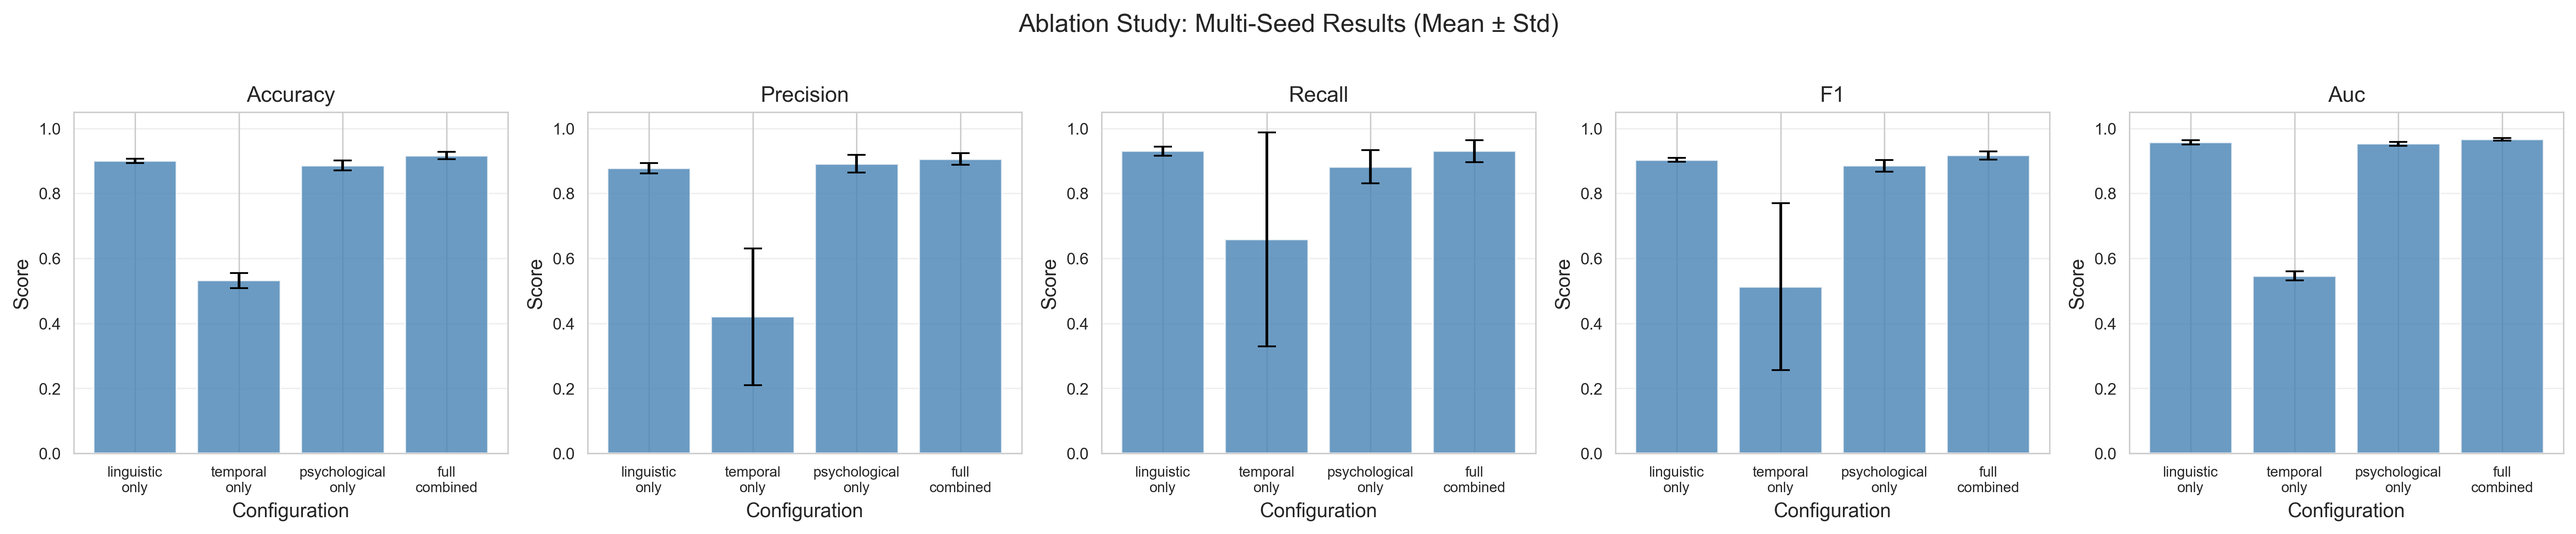
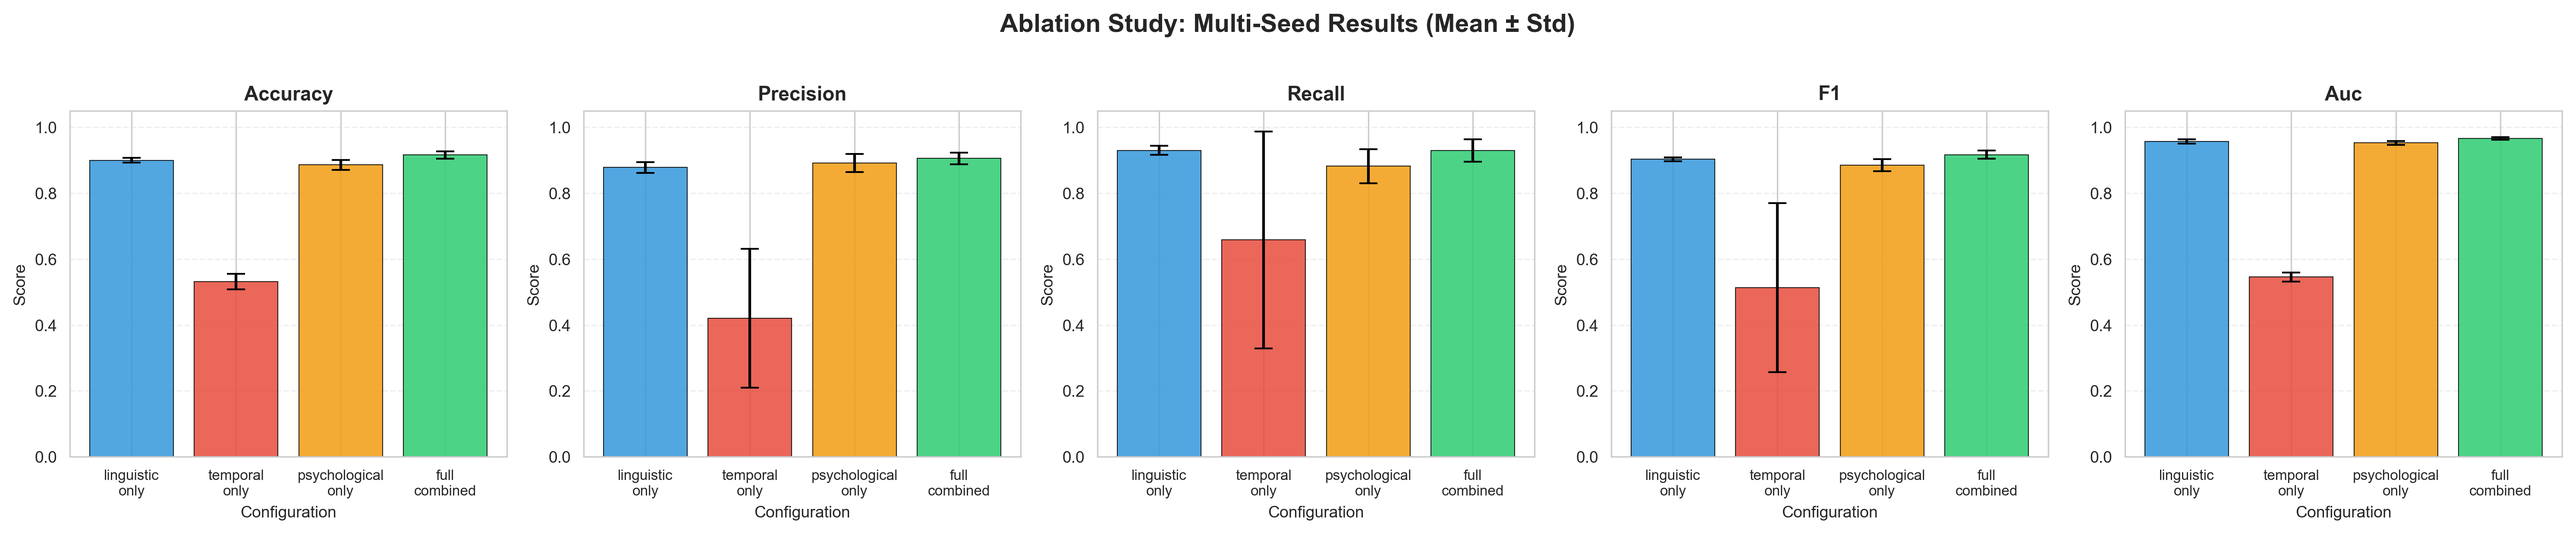
feat: add aggregate confusion matrices

diff --git a/aggregate_results.py b/aggregate_results.py
@@ -23,9 +23,10 @@ plt.rcParams['legend.fontsize'] = 9
 
 
 def load_seed_results(results_dir_pattern="results_seed_"):
-    """Load all available seed results from disk including ablation studies."""
+    """Load all available seed results from disk including ablation studies and confusion matrices."""
     all_results = []
     all_ablations = []
+    all_full_data = []
     seeds = []
 
     base_dir = Path(".")
@@ -48,13 +49,15 @@ def load_seed_results(results_dir_pattern="results_seed_"):
                 ablation_study = data.get('ablation_study', {})
                 all_ablations.append(ablation_study)
 
+                all_full_data.append(data)
+
                 print(f"✓ Loaded results from {seed_dir.name} (seed {seed_num})")
             except Exception as e:
                 print(f"✗ Failed to load {seed_dir.name}: {e}")
         else:
             print(f"✗ No comprehensive_results.json in {seed_dir.name}")
 
-    return all_results, all_ablations, seeds
+    return all_results, all_ablations, seeds, all_full_data
 
 
 def aggregate_metrics(all_results):
@@ -198,13 +201,22 @@ def plot_model_comparison(aggregated_results, output_dir="results"):
 
 
 def plot_ablation_study(all_ablations, output_dir="results"):
-    """Create visualization of ablation study results across seeds."""
+    """Create visualization of ablation study results across seeds with color-coded configurations."""
     if not all_ablations or not all_ablations[0]:
         print("No ablation data available for visualization")
         return
 
     ablation_configs = list(all_ablations[0].keys())
     metrics = ['accuracy', 'precision', 'recall', 'f1', 'auc']
+
+    color_map = {
+        'linguistic_only': '#3498db',      # Blue - linguistic features
+        'temporal_only': '#e74c3c',        # Red - temporal features
+        'psychological_only': '#f39c12',   # Orange - psychological features
+        'full_combined': '#2ecc71'         # Green - full model (best performance)
+    }
+
+    fallback_colors = ['#9b59b6', '#1abc9c', '#34495e', '#e67e22']
 
     ablation_agg = {}
     for config in ablation_configs:
@@ -229,6 +241,7 @@ def plot_ablation_study(all_ablations, output_dir="results"):
         configs = []
         means = []
         stds = []
+        colors = []
 
         for config in ablation_configs:
             if metric in ablation_agg[config]:
@@ -236,18 +249,24 @@ def plot_ablation_study(all_ablations, output_dir="results"):
                 means.append(ablation_agg[config][metric]['mean'])
                 stds.append(ablation_agg[config][metric]['std'])
 
-        x = np.arange(len(configs))
-        bars = ax.bar(x, means, yerr=stds, capsize=5, alpha=0.8, color='steelblue')
+                if config in color_map:
+                    colors.append(color_map[config])
+                else:
+                    fallback_idx = len(colors) % len(fallback_colors)
+                    colors.append(fallback_colors[fallback_idx])
 
-        ax.set_xlabel('Configuration')
-        ax.set_ylabel('Score')
-        ax.set_title(f'{metric.capitalize()}')
+        x = np.arange(len(configs))
+        bars = ax.bar(x, means, yerr=stds, capsize=5, alpha=0.85, color=colors, edgecolor='black', linewidth=0.5)
+
+        ax.set_xlabel('Configuration', fontsize=9)
+        ax.set_ylabel('Score', fontsize=9)
+        ax.set_title(f'{metric.capitalize()}', fontsize=11, fontweight='bold')
         ax.set_xticks(x)
         ax.set_xticklabels(configs, rotation=0, ha='center', fontsize=8)
         ax.set_ylim([0, 1.05])
-        ax.grid(axis='y', alpha=0.3)
+        ax.grid(axis='y', alpha=0.3, linestyle='--')
 
-    plt.suptitle('Ablation Study: Multi-Seed Results (Mean ± Std)', y=1.02, fontsize=14)
+    plt.suptitle('Ablation Study: Multi-Seed Results (Mean ± Std)', y=1.02, fontsize=14, fontweight='bold')
     plt.tight_layout()
     output_path = os.path.join(output_dir, 'aggregated_ablation_study.png')
     plt.savefig(output_path, dpi=300, bbox_inches='tight')
@@ -297,6 +316,125 @@ def plot_metrics_heatmap(aggregated_results, output_dir="results"):
     print(f"Metrics heatmap saved to: {output_path}")
 
 
+def plot_aggregated_confusion_matrices(all_results_with_cm, output_dir="results"):
+    """
+    Create aggregated confusion matrices for both models across all seeds.
+
+    Args:
+        all_results_with_cm: List of result dictionaries with confusion_matrix data
+        output_dir: Directory to save the plots
+    """
+    print("\nGenerating aggregated confusion matrices...")
+
+    models_cm = {}
+
+    for results in all_results_with_cm:
+        model_performance = results.get('model_performance', {})
+
+        for model_name, model_data in model_performance.items():
+            if 'confusion_matrix' in model_data:
+                if model_name not in models_cm:
+                    models_cm[model_name] = []
+                models_cm[model_name].append(np.array(model_data['confusion_matrix']))
+
+    if not models_cm:
+        print("No confusion matrix data found in results.")
+        return
+
+    mean_cms = {}
+    for model_name, cm_list in models_cm.items():
+        mean_cms[model_name] = np.mean(cm_list, axis=0).astype(int)
+
+    num_models = len(mean_cms)
+    fig, axes = plt.subplots(1, num_models, figsize=(6 * num_models, 5))
+
+    if num_models == 1:
+        axes = [axes]
+
+    class_names = ['Control', 'Depression']
+
+    for idx, (model_name, cm) in enumerate(mean_cms.items()):
+        ax = axes[idx]
+
+        display_name = model_name.replace('_', ' ').title()
+        if 'Roberta' in display_name:
+            display_name = 'RoBERTa Baseline'
+        elif 'Semantic' in display_name or 'Gnn' in display_name:
+            display_name = 'STEMS-GNN'
+
+        sns.heatmap(cm, annot=True, fmt='d', cmap='Blues',
+                   xticklabels=class_names, yticklabels=class_names,
+                   ax=ax, cbar_kws={'label': 'Count'},
+                   annot_kws={'size': 14, 'weight': 'bold'})
+
+        ax.set_title(f'{display_name}\n(Averaged across all seeds)', fontsize=12, fontweight='bold')
+        ax.set_ylabel('True Label', fontsize=11)
+        ax.set_xlabel('Predicted Label', fontsize=11)
+
+        total = cm.sum()
+        for i in range(2):
+            for j in range(2):
+                percentage = (cm[i, j] / total) * 100
+                ax.text(j + 0.5, i + 0.7, f'({percentage:.1f}%)',
+                       ha='center', va='center', fontsize=9, color='gray')
+
+        tn, fp, fn, tp = cm.ravel()
+        accuracy = (tp + tn) / total
+        precision = tp / (tp + fp) if (tp + fp) > 0 else 0
+        recall = tp / (tp + fn) if (tp + fn) > 0 else 0
+        f1 = 2 * (precision * recall) / (precision + recall) if (precision + recall) > 0 else 0
+
+        metrics_text = f'Acc: {accuracy:.3f} | Prec: {precision:.3f} | Rec: {recall:.3f} | F1: {f1:.3f}'
+        ax.text(0.5, -0.15, metrics_text, transform=ax.transAxes,
+               ha='center', fontsize=9, bbox=dict(boxstyle='round', facecolor='wheat', alpha=0.3))
+
+    plt.suptitle('Aggregated Confusion Matrices (Mean across all seeds)',
+                fontsize=14, fontweight='bold', y=1.02)
+    plt.tight_layout()
+
+    output_path = os.path.join(output_dir, 'aggregated_confusion_matrices.png')
+    plt.savefig(output_path, dpi=300, bbox_inches='tight')
+    plt.close()
+
+    print(f"Aggregated confusion matrices saved to: {output_path}")
+
+    fig, axes = plt.subplots(1, num_models, figsize=(6 * num_models, 5))
+
+    if num_models == 1:
+        axes = [axes]
+
+    for idx, (model_name, cm) in enumerate(mean_cms.items()):
+        ax = axes[idx]
+
+        display_name = model_name.replace('_', ' ').title()
+        if 'Roberta' in display_name:
+            display_name = 'RoBERTa Baseline'
+        elif 'Semantic' in display_name or 'Gnn' in display_name:
+            display_name = 'STEMS-GNN'
+
+        cm_normalized = cm.astype('float') / cm.sum(axis=1)[:, np.newaxis]
+
+        sns.heatmap(cm_normalized, annot=True, fmt='.2%', cmap='RdYlGn',
+                   xticklabels=class_names, yticklabels=class_names,
+                   ax=ax, cbar_kws={'label': 'Percentage'},
+                   vmin=0, vmax=1, annot_kws={'size': 14, 'weight': 'bold'})
+
+        ax.set_title(f'{display_name} (Normalized)\n(Averaged across all seeds)',
+                    fontsize=12, fontweight='bold')
+        ax.set_ylabel('True Label', fontsize=11)
+        ax.set_xlabel('Predicted Label', fontsize=11)
+
+    plt.suptitle('Normalized Confusion Matrices (Row-wise percentages)',
+                fontsize=14, fontweight='bold', y=1.02)
+    plt.tight_layout()
+
+    output_path = os.path.join(output_dir, 'aggregated_confusion_matrices_normalized.png')
+    plt.savefig(output_path, dpi=300, bbox_inches='tight')
+    plt.close()
+
+    print(f"Normalized confusion matrices saved to: {output_path}")
+
+
 def plot_error_comparison(aggregated_results, output_dir="results"):
     """Create visualization showing variation across seeds for each model."""
     metrics = ['accuracy', 'precision', 'recall', 'f1', 'auc']
@@ -343,7 +481,7 @@ def main():
     print("="*80)
     print("Loading existing results from disk...\n")
 
-    all_results, all_ablations, seeds = load_seed_results()
+    all_results, all_ablations, seeds, all_full_data = load_seed_results()
 
     if not all_results:
         print("\n✗ No results found. Please run experiments first.")
@@ -367,6 +505,7 @@ def main():
     plot_metrics_heatmap(aggregated, output_dir=output_dir)
     plot_error_comparison(aggregated, output_dir=output_dir)
     plot_ablation_study(all_ablations, output_dir=output_dir)
+    plot_aggregated_confusion_matrices(all_full_data, output_dir=output_dir)
 
     print("\n" + "="*80)
     print("ALL VISUALIZATIONS COMPLETE")
@@ -378,6 +517,8 @@ def main():
     print("  - aggregated_metrics_heatmap.png")
     print("  - aggregated_error_distribution.png")
     print("  - aggregated_ablation_study.png")
+    print("  - aggregated_confusion_matrices.png")
+    print("  - aggregated_confusion_matrices_normalized.png")
     print()
 
 

diff --git a/results_saver.py b/results_saver.py
@@ -58,16 +58,18 @@ class ResultsSaver:
         gnn_results: Dict[str, Any],
         ablation_results: Optional[Dict[str, Any]] = None,
         dataset_info: Optional[Dict[str, Any]] = None,
+        predictions: Optional[Dict[str, Tuple]] = None,
         filename: str = "comprehensive_results.json"
     ) -> None:
         """
-        Save comprehensive results to JSON file.
+        Save comprehensive results to JSON file including confusion matrices.
 
         Args:
             roberta_results: RoBERTa baseline results dictionary
             gnn_results: Semantic Ego-GNN results dictionary
             ablation_results: Optional ablation study results
             dataset_info: Optional dataset characteristics
+            predictions: Optional dictionary mapping model names to (y_true, y_pred) tuples
             filename: Output filename
         """
         print(f"\nSaving comprehensive results to {filename}...")
@@ -95,6 +97,12 @@ class ResultsSaver:
                 'auc': rb_metrics.get('auc', 0.0)
             }
 
+            if predictions and 'RoBERTa Baseline' in predictions:
+                from sklearn.metrics import confusion_matrix
+                y_true, y_pred = predictions['RoBERTa Baseline']
+                cm = confusion_matrix(y_true, y_pred)
+                model_performance['roberta_baseline']['confusion_matrix'] = cm.tolist()
+
         if gnn_results and 'correct_semantic_gnn' in gnn_results:
             gnn_metrics = gnn_results['correct_semantic_gnn']['metrics']
             model_performance['semantic_ego_gnn'] = {
@@ -104,6 +112,12 @@ class ResultsSaver:
                 'f1': gnn_metrics.get('f1', 0.0),
                 'auc': gnn_metrics.get('auc', 0.0)
             }
+
+            if predictions and 'STEMS-GNN' in predictions:
+                from sklearn.metrics import confusion_matrix
+                y_true, y_pred = predictions['STEMS-GNN']
+                cm = confusion_matrix(y_true, y_pred)
+                model_performance['semantic_ego_gnn']['confusion_matrix'] = cm.tolist()
 
         results['model_performance'] = model_performance
 
@@ -517,7 +531,7 @@ class ResultsSaver:
         print("="*60)
 
         self.save_comprehensive_results(
-            roberta_results, gnn_results, ablation_results, dataset_info
+            roberta_results, gnn_results, ablation_results, dataset_info, predictions
         )
 
         self.save_performance_comparison_csv(roberta_results, gnn_results)

diff --git a/main.py b/main.py
@@ -471,7 +471,6 @@ def run_multi_seed_evaluation(num_seeds=5):
     print("Evaluation Complete.")
     print(f"{'='*80}")
 
-    # Generate aggregated results and visualizations
     print(f"\n{'='*80}")
     print("GENERATING AGGREGATED RESULTS AND VISUALIZATIONS")
     print(f"{'='*80}\n")
@@ -484,26 +483,24 @@ def run_multi_seed_evaluation(num_seeds=5):
             plot_model_comparison,
             plot_ablation_study,
             plot_metrics_heatmap,
-            plot_error_comparison
+            plot_error_comparison,
+            plot_aggregated_confusion_matrices
         )
 
-        # Load results from disk
-        all_results_loaded, all_ablations, result_seeds = load_seed_results()
+        all_results_loaded, all_ablations, result_seeds, all_full_data = load_seed_results()
 
         if all_results_loaded:
-            # Aggregate metrics
             aggregated = aggregate_metrics(all_results_loaded)
 
-            # Save aggregated results
             output_dir = "results"
             save_aggregated_results(aggregated, result_seeds, output_dir=output_dir)
 
-            # Generate visualizations
             print(f"\nGenerating publication-quality visualizations...")
             plot_model_comparison(aggregated, output_dir=output_dir)
             plot_metrics_heatmap(aggregated, output_dir=output_dir)
             plot_error_comparison(aggregated, output_dir=output_dir)
             plot_ablation_study(all_ablations, output_dir=output_dir)
+            plot_aggregated_confusion_matrices(all_full_data, output_dir=output_dir)
 
             print(f"\n{'='*80}")
             print("AGGREGATED RESULTS COMPLETE")
